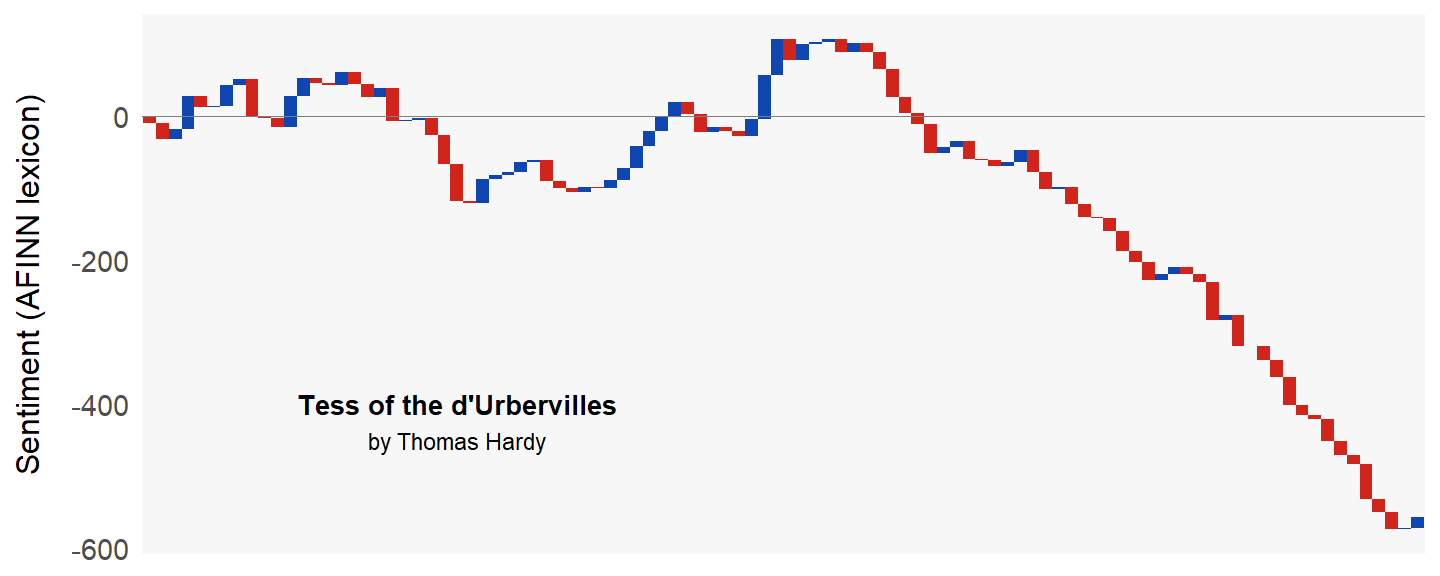
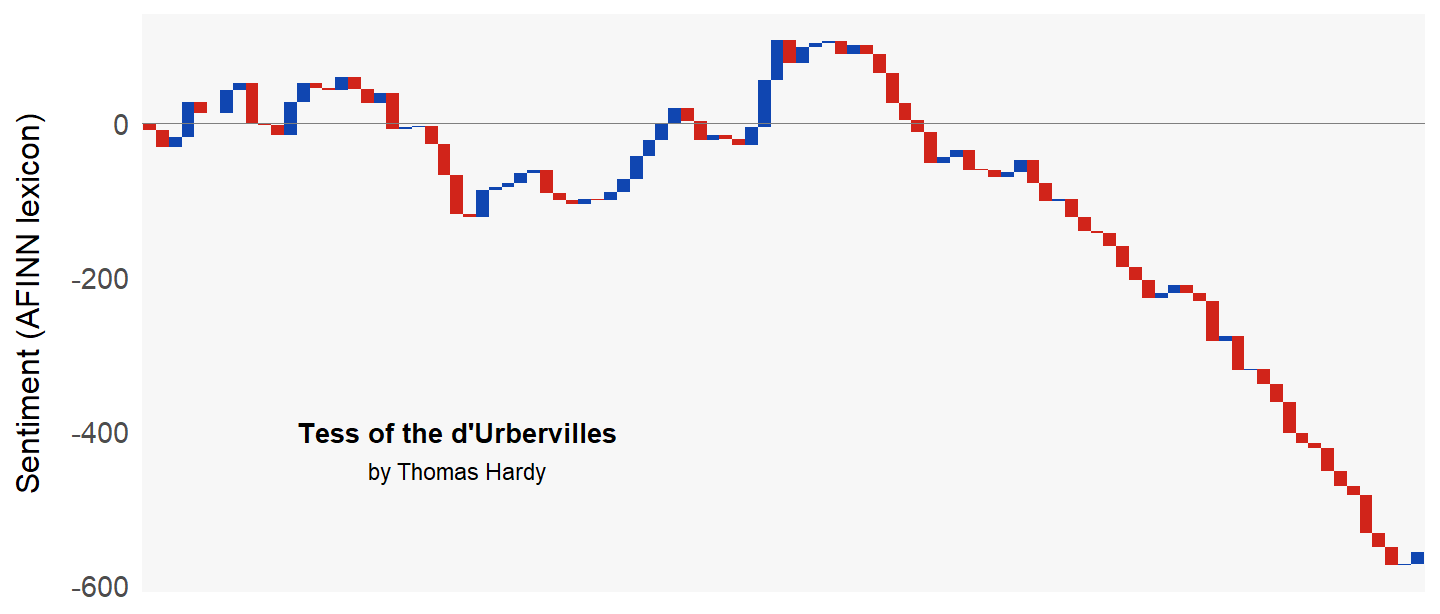
Add files via upload

diff --git a/docs/posts/2022-11-19-the-emotional-shape-of-novels/index.html b/docs/posts/2022-11-19-the-emotional-shape-of-novels/index.html
@@ -105,7 +105,7 @@ code span.wa { color: #5e5e5e; font-style: italic; } /* Warning */
 <meta property="og:url" content="https://ksreyes.github.io/twopoints/posts/2022-11-19-the-emotional-shape-of-novels/"/>
 <meta property="og:image" content="https://ksreyes.github.io/twopoints/posts/2022-11-19-the-emotional-shape-of-novels/shape-of-novels_files/figure-html5/unnamed-chunk-5-1.png"/>
 <meta property="og:image:width" content="1440"/>
-<meta property="og:image:height" content="576"/>
+<meta property="og:image:height" content="614"/>
 <meta property="og:locale" content="en_US"/>
 <meta property="og:site_name" content="Two Points Make a Line"/>
 
@@ -116,7 +116,7 @@ code span.wa { color: #5e5e5e; font-style: italic; } /* Warning */
 <meta property="twitter:url" content="https://ksreyes.github.io/twopoints/posts/2022-11-19-the-emotional-shape-of-novels/"/>
 <meta property="twitter:image" content="https://ksreyes.github.io/twopoints/posts/2022-11-19-the-emotional-shape-of-novels/shape-of-novels_files/figure-html5/unnamed-chunk-5-1.png"/>
 <meta property="twitter:image:width" content="1440"/>
-<meta property="twitter:image:height" content="576"/>
+<meta property="twitter:image:height" content="614"/>
 
 <!--/radix_placeholder_meta_tags-->
   <!--radix_placeholder_rmarkdown_metadata-->
@@ -2474,7 +2474,7 @@ d-appendix d-footnote-list a.footnote-backlink {
 <div class="d-article">
 <p>Novels can take you for such a ride.</p>
 <p>Today I’m experimenting with sentiment analysis on some novels I’ve recently read. I’ll be using <code>tidytext</code> with data from <code>gutenbergr</code> (i.e. Project Gutenberg), which means I’m restricted to the classics. I read three this year: <em>Swann’s Way</em> by Marcel Proust, <em>Tess of the d’Urbervilles</em> by Thomas Hardy, and <em>The Age of Innocence</em> by Edith Wharton.</p>
-<p>Quick review of each. (1) It takes a certain mood to be reading Proust. I got through <em>Within a Budding Grove</em> but found halfway through that oops I’m not in the mood anymore, so I stopped searching for that lost time. (2) While I enjoyed Hardy’s <em>Far from the Madding Crowd</em>, <em>Tess</em> was such an unrelenting depression parade that I was feeling numb by the end of it. (3) Ah, <em>Age of Innocence</em> is one of my all-time favorite. I have been, at various points in my life, Newland, Ellen, and May. My God, I might have even been a Julius Beaufort.</p>
+<p>Quick review of each. (1) It takes a certain mood to be reading Proust. I got through <em>Within a Budding Grove</em> but found halfway through that oops I’m not in the mood anymore, so I stopped searching for that lost time. (2) While I enjoyed Hardy’s <em>Far from the Madding Crowd</em>, <em>Tess</em> was such an unrelenting depression parade that I was feeling numb by the end of it. (3) Ah, <em>Age of Innocence</em> is one of my all-time favorites. I have been, at various points in my life, Newland, Ellen, and May. My God, I might have even been a Julius Beaufort.</p>
 <p>Let’s load up these works.</p>
 <div class="layout-chunk" data-layout="l-body">
 <div class="sourceCode">
@@ -2523,7 +2523,7 @@ d-appendix d-footnote-list a.footnote-backlink {
 <p><img src="shape-of-novels_files/figure-html5/unnamed-chunk-3-1.png" width="624" /></p>
 </div>
 <p>It worked! But the chart is ugly! The problem is that net sentiment swings so wildly up and down from chunk to chunk that the result looks more like a seismograph than the “shape” of the novel.</p>
-<p>Let’s try a different approach. When you read a chapter and the chapter is a happy one, you enter the next chapter starting from a position of positive sentiment. Then maybe the next chapter is a sad one, so it brings down your overall sentiment back to something like neutral. Working off this idea, let’s try and map <em>cumulative</em> sentiment across the novel instead of the isolated sentiment of each chunk.</p>
+<p>Let’s try a different approach. When you read a chapter and it’s a happy one, you enter the next chapter starting from a position of positive sentiment. Then maybe the next chapter is a sad one, so it brings down your overall sentiment back to something like neutral. The point is, the emotional weight of a novel <em>builds</em>, it doesn’t reset every chapter. Working off this idea, let’s try and map <em>cumulative</em> sentiment across the novel instead of the isolated sentiment of each chunk.</p>
 <p>The chart that works best for this is a waterfall chart, for which the <code>waterfalls</code> package will be helpful.</p>
 <div class="layout-chunk" data-layout="l-body">
 <div class="sourceCode">
@@ -2595,7 +2595,7 @@ Show code
 </details>
 <p><img src="shape-of-novels_files/figure-html5/unnamed-chunk-5-1.png" width="720" data-distill-preview=1 /></p>
 </div>
-<p>It’s a reasonably happy ride for the first half of the novel as we follow Madame Olenska’s disruptions of the self-satisfied New York upper-class society of the 19th century. The turning point is right about where Newland Archer decides not to call her from up the hill. There’s a steady descent as passions clash with idealistic notions of the world before ending on a bittersweet note. You end the book on a net positive—all in all I’d say that makes sense.</p>
+<p>It’s a reasonably happy ride for the first half of the novel as we follow Madame Olenska’s disruptions of the self-satisfied New York upper-class society of the 19th century. The turning point is right about where Newland Archer decides not to call her from up the hill. There’s a steady descent as passions clash with idealistic notions of the world before ending on a bittersweet note. You end the book on a net positive, and all in all I’d say that makes sense.</p>
 <p>Finally, here is <em>Swann’s Way</em>.</p>
 <div class="layout-chunk" data-layout="l-body">
 <details>
